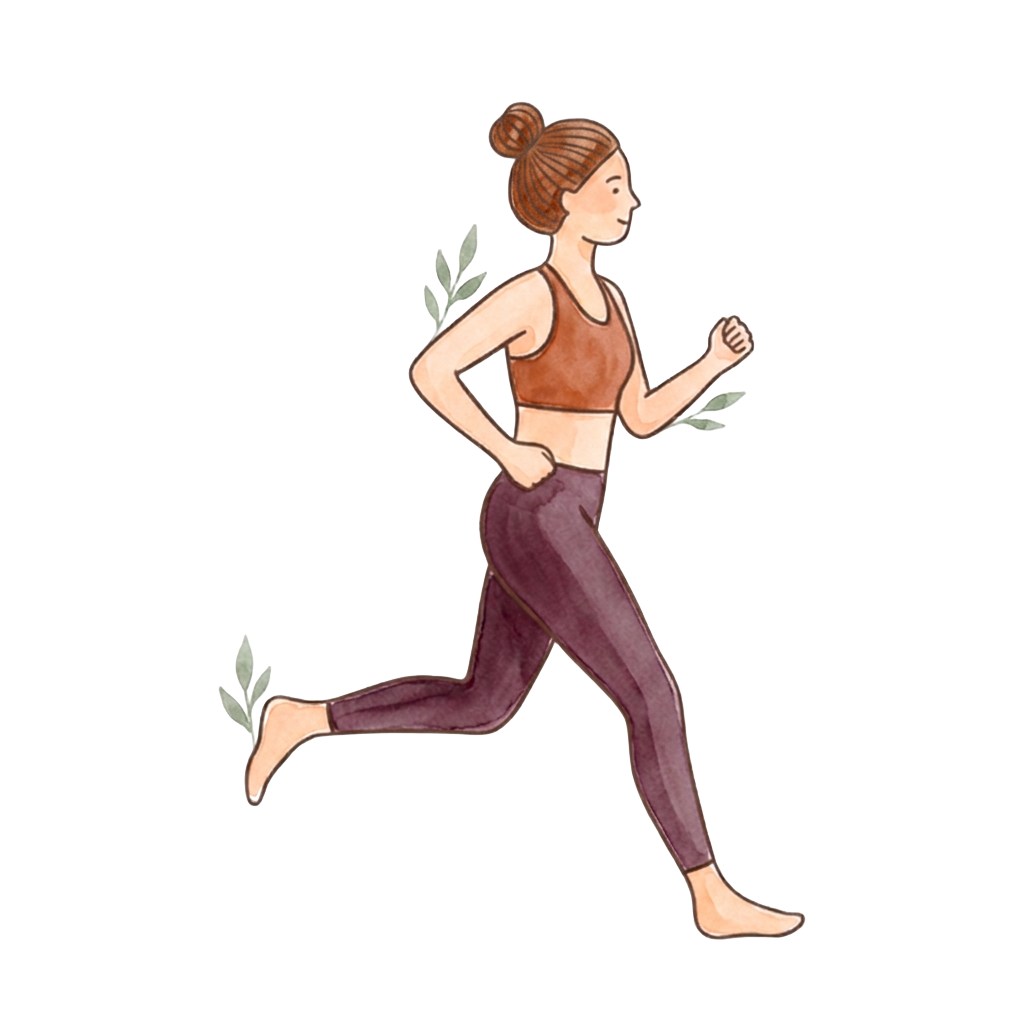
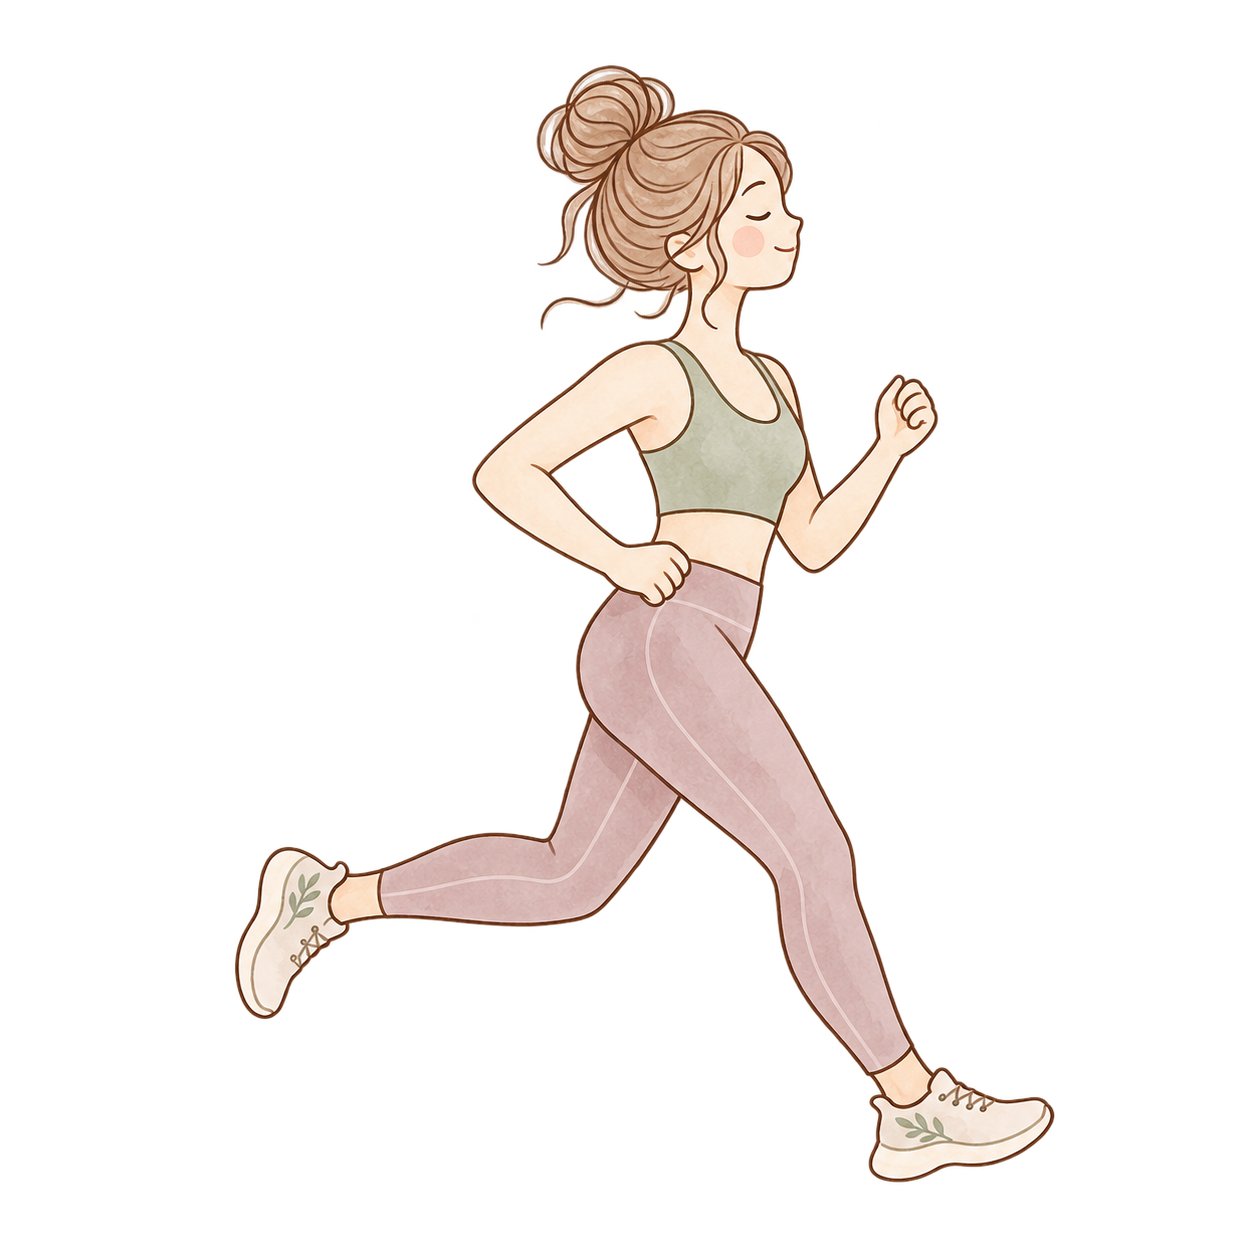
De-Lovable storage and Sentry refs; add homepage artwork
Derive exercise-illustration storage URL from VITE_SUPABASE_URL, match Sentry trace target to any *.supabase.co, and add the redrawn homepage yoch images.

Changed region(s): [[0.1875, 0.0312, 0.8438, 0.9375]]

diff --git a/src/lib/exercise-illustrations.ts b/src/lib/exercise-illustrations.ts
@@ -4,7 +4,9 @@ import { getExerciseImageByName } from "@/lib/exercise-image-lookup";
 const BUCKET = "exercise-assets";
 const FOLDER = "illustrations";
 const LS_GENERATED = "yocm_generated_illustrations_v1";
-const PUBLIC_BASE = `https://hwcgbcfqxzzhvivcdroh.supabase.co/storage/v1/object/public/${BUCKET}/${FOLDER}`;
+// Derive from the configured project so illustrations resolve on whichever
+// Supabase project the app points at (previously hardcoded to Lovable Cloud).
+const PUBLIC_BASE = `${import.meta.env.VITE_SUPABASE_URL}/storage/v1/object/public/${BUCKET}/${FOLDER}`;
 
 /** Aggressive normaliser: strip non-alphanum, lowercase. */
 function norm(s: string): string {

diff --git a/src/instrument.ts b/src/instrument.ts
@@ -31,7 +31,7 @@ Sentry.init({
   tracesSampleRate: import.meta.env.PROD ? 0.2 : 1.0,
   tracePropagationTargets: [
     "localhost",
-    /^https:\/\/hwcgbcfqxzzhvivcdroh\.supabase\.co/,
+    /^https:\/\/[a-z0-9]+\.supabase\.co/,
   ],
 
   // Session Replay — 10% of sessions, 100% on error
